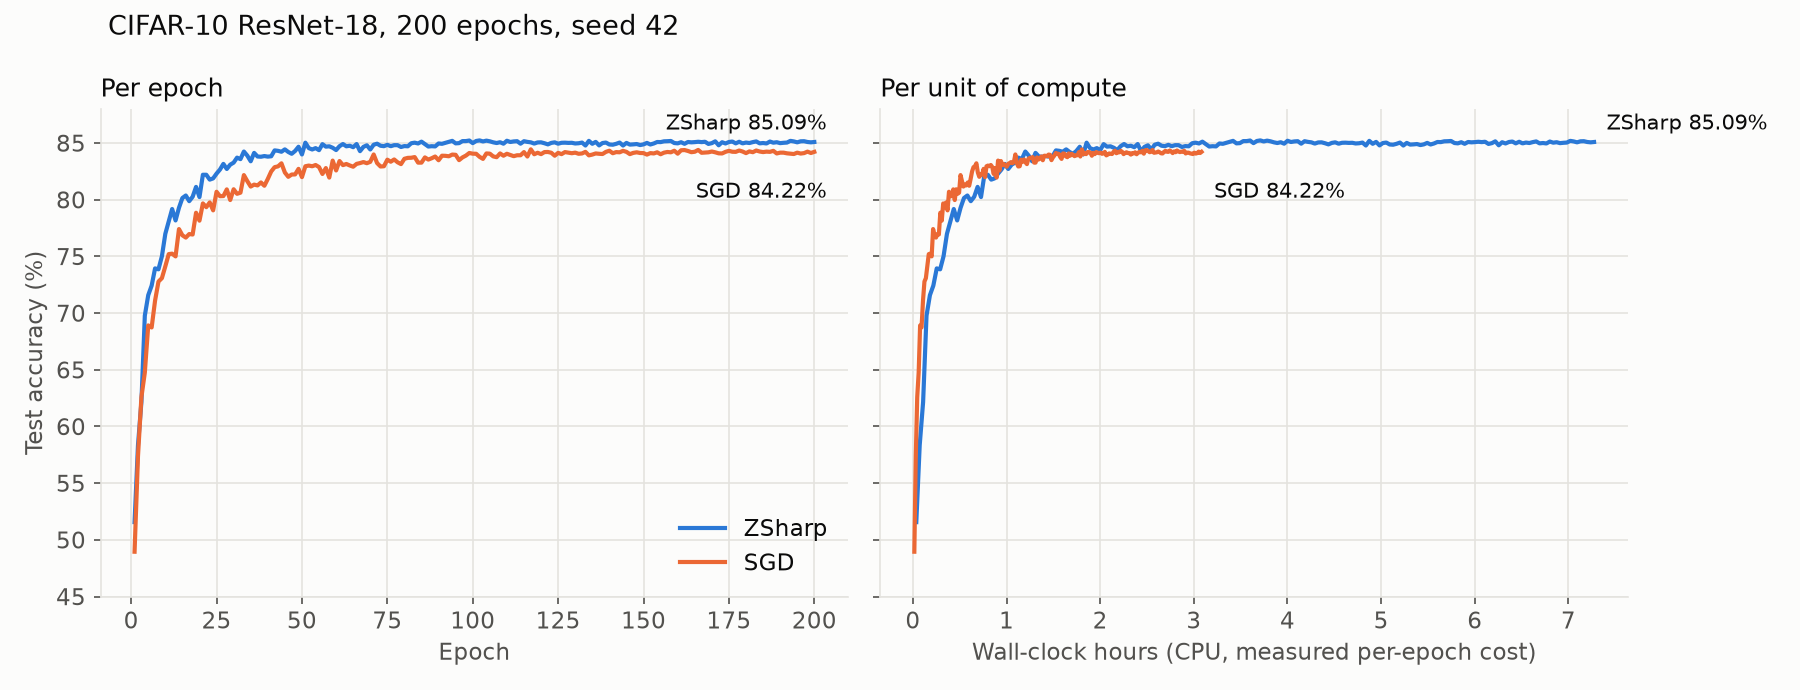
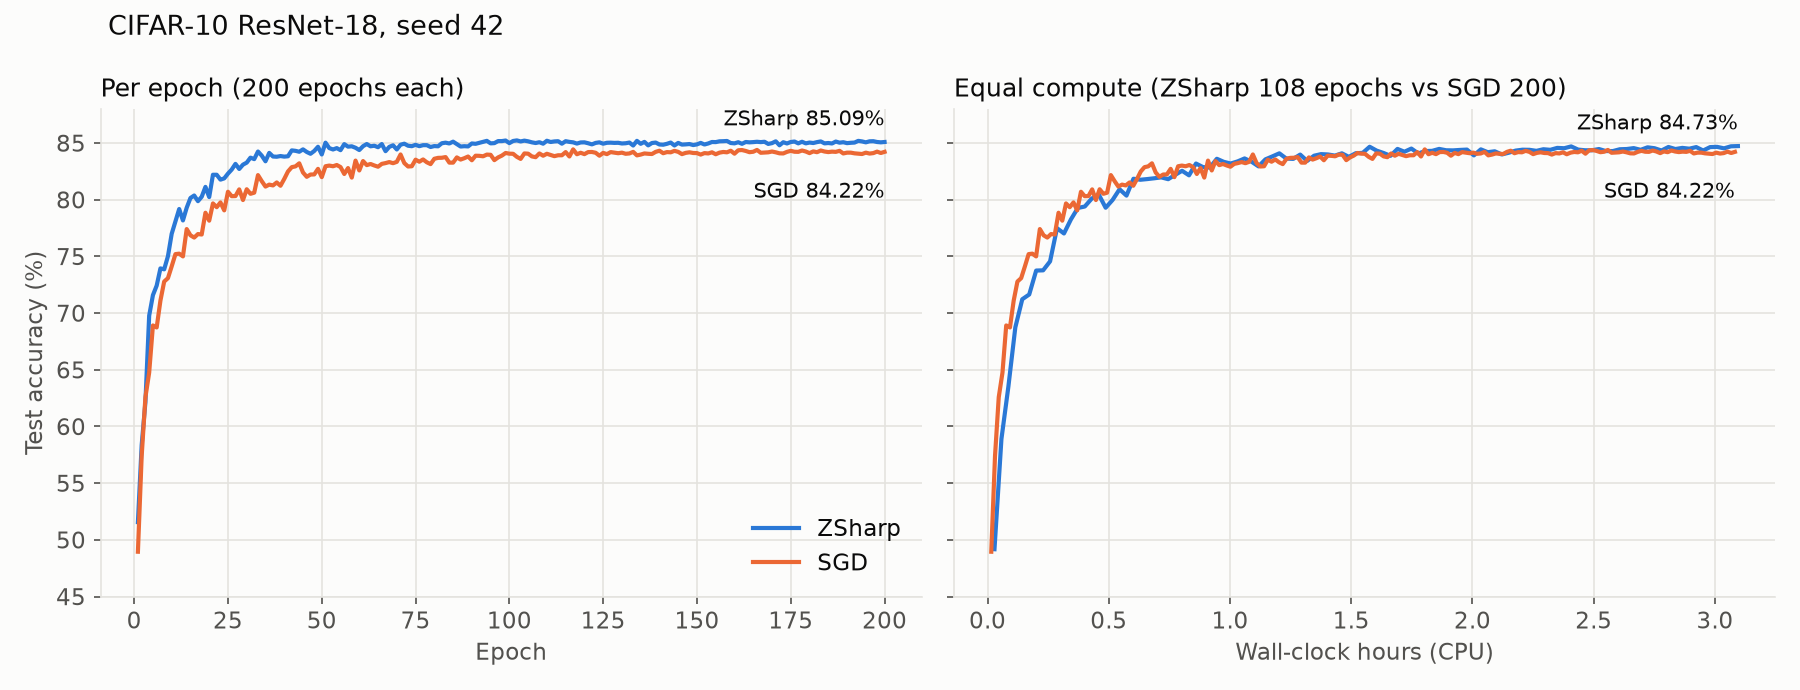
docs: report measured equal-compute ZSharp run
A 108-epoch ZSharp run on the faster threshold code, matching the
compute of 200 SGD epochs at the measured 1.9x per-epoch cost, reaches
84.73% vs SGD's 84.22%. Plot it in place of the estimated compute panel.

diff --git a/README.md b/README.md
@@ -48,12 +48,12 @@ the per-epoch gap widens. ZSharp took ~3.2x SGD's wall-clock time here
 > **Note**: the gap shrinks with training — ZSharp reaches its plateau
 > sooner, but both end within about a point. Each ZSharp step costs two
 > forward/backward passes plus the Z-score filtering; one ZSharp epoch takes
-> ~2.4x as long as an SGD epoch (155 s vs 66 s on 4 CPU threads). At equal
-> wall-clock SGD leads for the first ~1.8 h; after that ZSharp is ahead, and
-> at SGD's full 200-epoch budget (3.1 h) ZSharp reaches 85.12% (epoch 85)
-> vs SGD's 84.22%. See the right panel of the figure above. The 200-epoch
-> ZSharp run itself predates the faster threshold computation and took
-> 13.2 h; at the current per-epoch cost it would take ~7.3 h.
+> ~1.9x as long as an SGD epoch (127 s vs 68 s on 4 CPU threads). Given the
+> same compute as 200 SGD epochs, a 108-epoch ZSharp run reaches 84.73% vs
+> SGD's 84.22% (last-10-epoch means 84.58% vs 84.12%); SGD leads for
+> roughly the first 40% of that budget. See the right panel of the figure
+> above. The 200-epoch ZSharp row predates the faster threshold computation
+> (13.2 h then, ~5.7 h at the current per-epoch cost).
 
 ## Features
 
